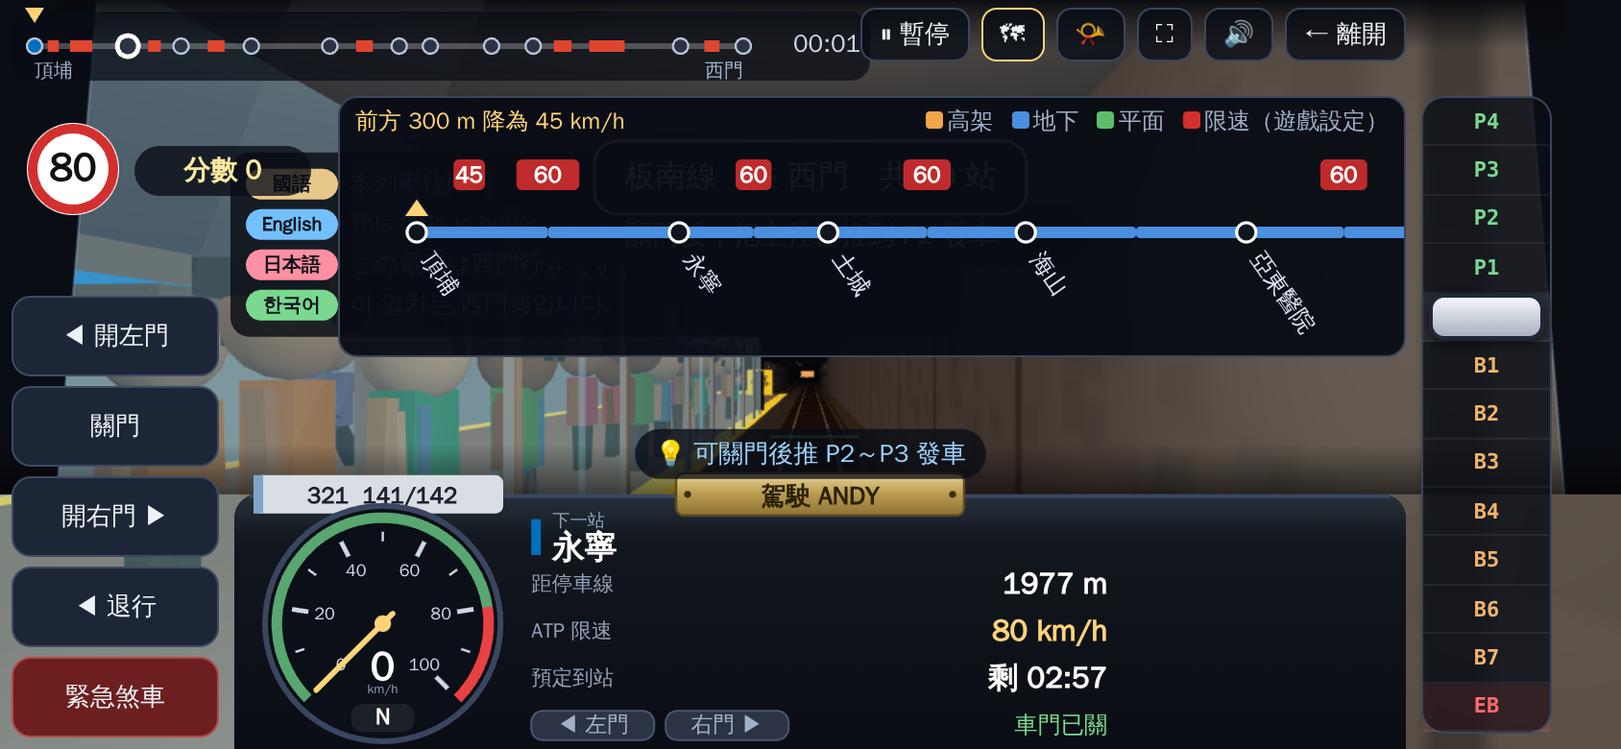
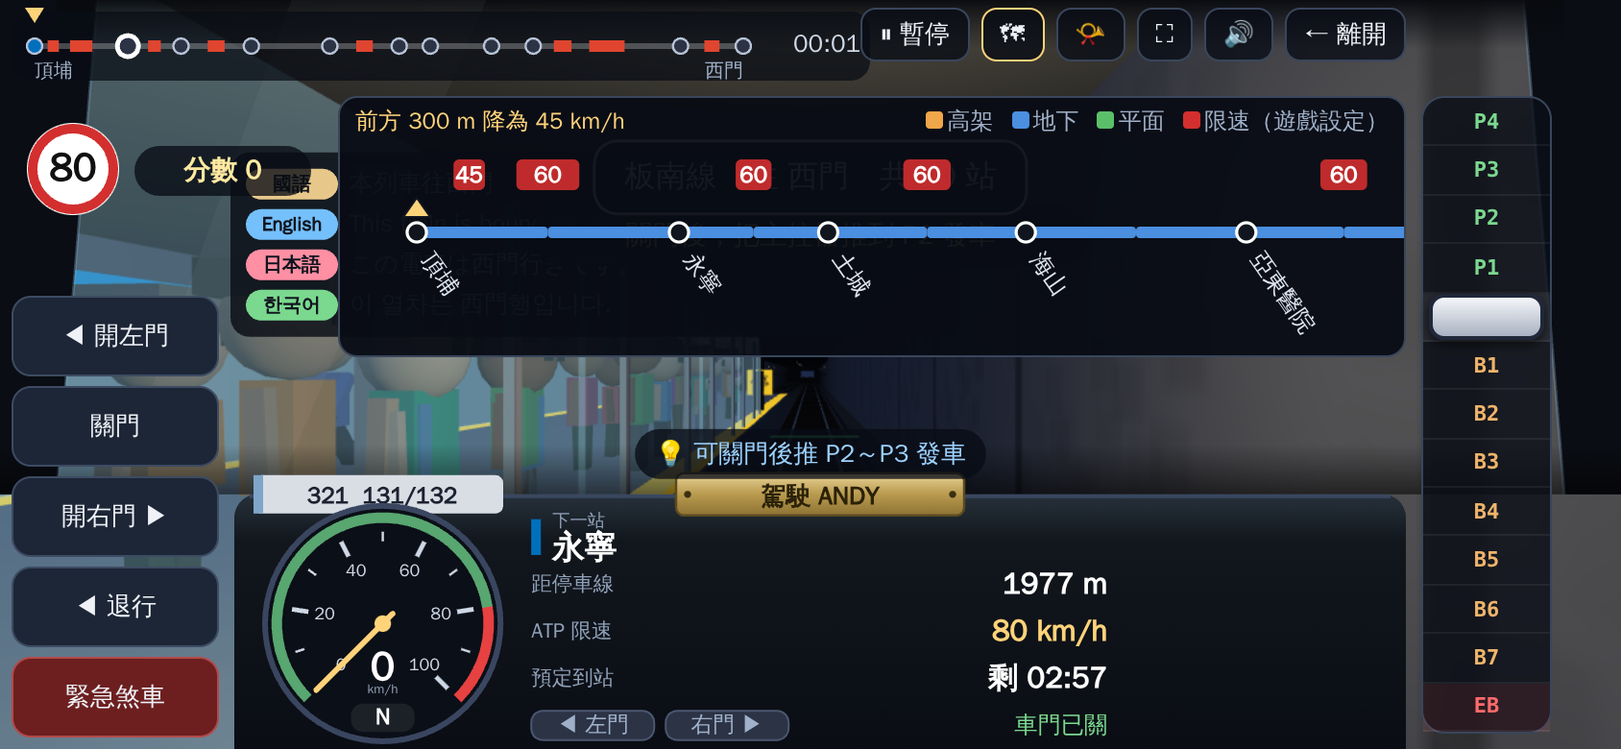
北捷駕駛模擬：選單簡化、首次教學、自動畫質
Claude-Session: https://claude.ai/code/session_01Qge72Z7eeTuytV4eWrHyPn

diff --git a/README.md b/README.md
@@ -9,7 +9,7 @@
   - `CARDS.md`：強化卡牌表的維護說明；`vendor/`：PeerJS（連線對戰）
 - `3kingdom-battles/`：三國・名戰錄（立體 3D 回合制攻守城戰，歷史戰役關卡），說明見 `3kingdom-battles/README.md`
 - `pikmin-like/`：小芽隊長（2D 即時群體操作，類皮克敏玩法；單一 `index.html`，無外部函式庫）。改版時執行 `python3 pikmin-like/tools/bump_version.py 2026-xx-xx.nn` 更新版本號，玩家端會跳出「有新版本」提示
-- `taipei-mrt-driver/`：北捷駕駛模擬（第一人稱手動駕駛；`index.html` 為規則、儀表與 HUD（2D canvas），`js/render3d.js` 為 Three.js 3D 場景，`vendor/three.min.js` 只打包用到的類別，用到的類別有增減時執行 `bash taipei-mrt-driver/tools/build_three.sh` 重新打包）。車型資料在 `js/models.js`（`MODELS`／`FLEETS`／`FORMATIONS`；來自維基百科各車型條目與路線條目「使用列車」，2026-11 擷取：C301／321／341／C371／C381／VAL256／Innovia APM 256 的營運最高速度、起動加速度、正常與緊急減速度、編組輸出、單節長度、每節車門數、供電 DC 750 V；`mass`、`knee` 為推估、`cab` 配色為示意）。每次值勤依各路線列數加權派車（或在選單指定），物理（加速、煞車、限速、時刻表）與月台門位置都依車型；文湖線真實為全自動無人駕駛，遊戲中的手動駕駛是模擬設定。ATP 動作後的復歸有兩種（選單「ATP 超速動作後」，`SET.atpStrict`，預設寬鬆）：寬鬆＝速度降到限速以下（或已停住）且主控器在 N／煞車位就復歸；嚴格＝必須完全停車、等 2 秒、主控器回 N 才復歸。**真實北捷的復位規定沒有查到**，兩種都是遊戲設計；以下三種情況不論模式都必須停車（`g.tripStrict`）：前方有停止信號（ATP 對「終點速度為零的停車目標」不應中途放開，否則會衝過信號，曾在測試中發現）、退行超出月台、越過停止信號。ATP 是超速防護不是防撞：旅客誤入軌道事件不處置會失敗；分享在 `js/share.js`：選單的「分享這個關卡」與結算頁的「分享成績與這一關」呼叫 Web Share API（`navigator.share`）叫出系統分享面板（iPhone／iPad／Mac Safari 的面板內有 AirDrop；網頁無法直接呼叫 AirDrop，也無法保證面板內一定出現 AirDrop，需要 HTTPS 並在點擊當下同步呼叫），不支援或失敗時退回複製連結並顯示可手動複製的文字；關卡連結格式 `?line=blue&from=BL07&to=BL09&model=341&theme=night`（用站號不用索引；`applyShareParams` 對路線、站號、車型、天色全部驗證，任何一項不合法就整個忽略，並用 `hasOwnProperty` 擋掉 `constructor`／`__proto__`），載入後以 `history.replaceState` 清掉網址參數；路線圖與限速預告在 `js/routemap.js`：上方進度條以紅色標出限速區間；左上有「前方 N m 降為 X km/h」預告（`nextLimit`）；頂端 🗺 按鈕展開可左右滑動的路線圖（站名、高架／地下／平面底線、限速區間、目前位置，滑動後 4 秒內不自動跟隨）。**限速區間是遊戲依站距產生的設定（`buildRun` 的 `zones`），不是北捷實際的限速資料**，站體底線則取自查證過的站體資料；意見回饋在 `js/feedback.js`：選單「意見回饋」展開表單（類型、內文最多 1500 字、可勾選是否附上版本／關卡／畫面／瀏覽器資訊，不含駕駛名稱），按「用郵件 App 寄出」以 `mailto:` 開啟玩家自己的郵件 App，由玩家按寄出才會送出，沒有任何伺服器收集；備援為「複製內容」；收件信箱只在檔案最上面的 `FEEDBACK_TO`（注意：寫在公開網頁裡，任何人看得到），尚未做自動讀信回信；駕駛名稱預設 ANDY（`drvName()`），可在選單最上方的欄位修改（最多 12 字、前後空白去掉、清空回到 ANDY），顯示在駕駛室名牌、結算標題，並記錄在排行榜（顯示時以 `escHtml` 跳脫）；選單、結算、排行榜以文件自然捲動（不用 position:fixed＋內部捲動，避免 iPhone Safari 工具列收合後點擊位置錯開）；車內廣播在 `js/broadcast.js`（`announce(kind, st)`；語言與播報順序依報導為國語、English、日本語、한국어、台語、客語；英語句型為「The next station is X.」「This is X. The doors will open on the left side.」「This train is bound for X.」，**站名的唸法**：英文語音會把漢語拼音站名唸錯（例如 Jiangzicui），所以拼音的部分改由國語語音唸漢字，英文單字（Temple、Hall、Park…）仍用英文語音（`BC_EN_ALL`／`BC_EN_SEG`），沒有國語語音時退回整句英文；英文站名取自維基車站表，已核對江子翠為官方拼法 Jiangzicui，並修正表中筆誤 `Sun Yet-Sen`→`Sun Yat-sen`（`tools/gen_lines.py` 的 `EN_FIX`）；字幕＋依裝置語音朗讀；依據：北捷到站廣播為國語、台語、客語＋英語，日語自 2018 年、韓語自 2023 年起在熱門與轉乘站增設，2024 年計畫擴及全線，搜尋時未確認是否完成；`BC_NAMED_JK` 為報導點名的站名，轉乘站由各路線的重複站名判斷，名單不完整；台語、客語沒有正確語句與語音資料，只顯示站名與「無語音」；日語、韓語站名以裝置語音唸漢字，唸法可能不準）。手機震動在 `js/haptics.js`（`HAP` 定義各檔位、N 位、EB、ATP、車門、事件的圖案；Android 用 `navigator.vibrate`，iPhone Safari 沒有該 API，改用 iOS 17.4 起切換 `<input type=checkbox switch>` 的觸覺回饋近似，未在真機驗證）。突發事件在 `js/events.js`（`EV_INFO` 記錄每種事件的新聞出處與處置建議；`evTick` 排程、`evLimit` 事件限速、任何事件超過 5 分鐘強制結束以免卡死），預設開啟，選單可調頻率與種類；結算頁的建議由 `coachTips` 依本班數據產生。駕駛室有 TCMS 面板、型號編組銘板、強風雨刷與供電閃爍；月台上有卡通旅客（行人只走固定走道 `lanesFor`，避開排隊區與柱子 `pillarX`，下車旅客沿車門中心線走出再轉入走道，`debugPeople` 供測試檢查碰撞；`animatePeople`／`poseParts`：每人頭、頭髮、眼睛、軀幹、雙腿、雙臂共 9 個部件，以 InstancedMesh 一次畫完；排隊候車、開門後走進車廂、下車走開、月台上來回走動，動畫依 `g.time`）；3D 場景以 100 公尺為單位的區塊隨車前進建立／釋放（高架與平面段依 `sc` 生成建築、樹、河、山、湖、田、機廠與高架下道路車流；全線為雙軌（我方軌道在 x=0 靠右行駛，對向軌道在左側 `TS`＝4 m；`TS` 是假設值，未查到官方軌道中心距；隧道、高架橋、圍籬都依雙軌斷面，隧道為示意的雙軌箱型斷面，實際哪些區間是箱型或圓形隧道未查）；島式月台夾在兩軌之間，對向軌道由 `oppX()` 在站前後 60 m 平順分開到月台另一側，因此島式月台站的「大廳」（隧道變寬、高架橋面加寬、護欄與路燈讓開）也要涵蓋這前後各 60 m（`hallRange()`），否則分開中的軌道會穿過一般斷面的牆或橋面邊緣（曾量到永寧 86 m、淡水 73 m 穿牆；`tools` 以外的檢查方式是用 `R3.oppX` 對照牆與橋面邊緣），側式月台的對向軌道有自己的月台；限速牌與號誌放在我方軌道右側），車站靠近才建立；WebGL 不可用或載入失敗時自動退回 2D 偽 3D（`drawWorld`）。手機橫握（寬>高且高≤520）時 3D 畫面鋪滿、車門按鈕在左、手把在右、儀表縮成中間窄條，直握會提示橫放並可一鍵全螢幕橫向；3D 以動態 `import()` 載入，本機請用 `python3 -m http.server`（`file://` 不行）。路線資料在 `js/lines.js`（由 `tools/gen_lines.py` 自 `data/stations.json` 產生；`data/stations.json` 由 `tools/parse_stations.py` 解析維基百科各路線條目的車站表而來，2026-11 擷取，含廣慈/奉天宮延伸段共 28 站）。**已查證**：站序、站體 `env`（elev 高架／grade 平面／tunnel 地下）、月台 `plat`（島式／側式）、站間距離 `d`；文湖線哪些高架站在道路中央上方（`ro`，出自條目敘述）。**示意**：`sc`（周邊疏密 `z` 與河、山、湖、田、樹、醫院、機廠，`L`／`R` 為站序遞增方向的左右，未逐站查證），改 `gen_lines.py` 的 `SCENE` 後重新產生。選單以雙頭滑桿（`rs`）選起訖站，兩端可相鄰、可交叉（交叉＝反向）；退行（`toggleReverse`，R 鍵）限速 5 km/h（`REV_LIM`）、只限過線後的月台範圍內、每次扣 5 分；靠近停車線時畫面下方的對位指示條（`drawStopGauge`）以平方根刻度放大顯示差距。關卡由選單的起訖站（`SET.from`／`SET.to`）決定，起點大於終點即反向；門側依靠右行駛推得（島式在左、側式在右）；物理與規則參數集中在檔案前段常數（`ACC_P`、`DEC_B`、`DEC_EB`、`ATP_DEC`、`ZONE_DEC`、`MIN_OPEN`、`DWELL`）。主控器 P1～P4／N／B1～B7／EB，加速度有加加速度限制（急加減速不會瞬間生效），停車瞬間的殘餘減速度決定舒適分。`step()` 為固定 1/60 秒物理與規則（ATP 限速＝區間限速加上進站與限速牌前的平緩減速曲線、超速 0.8 秒自動 EB、車門連動鎖、冒進過站判定），`scoreArrival()` 依停車誤差、準點、舒適三項計分；時刻表在 `buildRun()` 依站距與限速區間推算。畫面為偽 3D 投影（`pj`／`surf`／`fr`，彎道由 `lat()` 疊加正弦曲率），`drawElev`／`drawTunnel`／`drawStation` 畫場景，`drawDash` 畫儀表。本機執行：`python3 -m http.server` 後開 `/taipei-mrt-driver/`。改版時執行 `python3 taipei-mrt-driver/tools/bump_version.py 2026-xx-xx.nn` 更新版本號，玩家端會跳出「有新版本」提示。檔案內 `window.__mrt` 提供測試用鉤子（`G`、`step`、`setNotch`、`openDoors`、`closeDoors`、`startRun`）
+- `taipei-mrt-driver/`：北捷駕駛模擬（第一人稱手動駕駛；`index.html` 為規則、儀表與 HUD（2D canvas），`js/render3d.js` 為 Three.js 3D 場景，`vendor/three.min.js` 只打包用到的類別，用到的類別有增減時執行 `bash taipei-mrt-driver/tools/build_three.sh` 重新打包）。車型資料在 `js/models.js`（`MODELS`／`FLEETS`／`FORMATIONS`；來自維基百科各車型條目與路線條目「使用列車」，2026-11 擷取：C301／321／341／C371／C381／VAL256／Innovia APM 256 的營運最高速度、起動加速度、正常與緊急減速度、編組輸出、單節長度、每節車門數、供電 DC 750 V；`mass`、`knee` 為推估、`cab` 配色為示意）。每次值勤依各路線列數加權派車（或在選單指定），物理（加速、煞車、限速、時刻表）與月台門位置都依車型；文湖線真實為全自動無人駕駛，遊戲中的手動駕駛是模擬設定。ATP 動作後的復歸有兩種（選單「ATP 超速動作後」，`SET.atpStrict`，預設寬鬆）：寬鬆＝速度降到限速以下（或已停住）且主控器在 N／煞車位就復歸；嚴格＝必須完全停車、等 2 秒、主控器回 N 才復歸。**真實北捷的復位規定沒有查到**，兩種都是遊戲設計；以下三種情況不論模式都必須停車（`g.tripStrict`）：前方有停止信號（ATP 對「終點速度為零的停車目標」不應中途放開，否則會衝過信號，曾在測試中發現）、退行超出月台、越過停止信號。ATP 是超速防護不是防撞：旅客誤入軌道事件不處置會失敗；分享在 `js/share.js`：選單的「分享這個關卡」與結算頁的「分享成績與這一關」呼叫 Web Share API（`navigator.share`）叫出系統分享面板（iPhone／iPad／Mac Safari 的面板內有 AirDrop；網頁無法直接呼叫 AirDrop，也無法保證面板內一定出現 AirDrop，需要 HTTPS 並在點擊當下同步呼叫），不支援或失敗時退回複製連結並顯示可手動複製的文字；關卡連結格式 `?line=blue&from=BL07&to=BL09&model=341&theme=night`（用站號不用索引；`applyShareParams` 對路線、站號、車型、天色全部驗證，任何一項不合法就整個忽略，並用 `hasOwnProperty` 擋掉 `constructor`／`__proto__`），載入後以 `history.replaceState` 清掉網址參數；選單簡化：首屏只有路線、預設關卡與「開始值勤」；駕駛名稱、自訂起訖站、天色、車型、突發事件、ATP、新手輔助、廣播／震動、畫質都收在「⚙ 自訂關卡與遊戲設定」，操作說明收在「📖 操作說明」。第一次開始會顯示 4 步驟教學並暫停（`localStorage` 的 `mrt-tut`，按「知道了」後不再出現）。畫質（`SET.quality`）：自動（預設）在連續約 1.5 秒平均每格超過 28 ms 時把 3D 解析度降一級（`QS`，最低 0.5 倍，只降不升）、高畫質固定不降、省電固定 0.6 倍；**在 Chromium 軟體繪圖下只能驗證邏輯，沒有在真實手機上量過幀率**；路線圖與限速預告在 `js/routemap.js`：上方進度條以紅色標出限速區間；左上有「前方 N m 降為 X km/h」預告（`nextLimit`）；頂端 🗺 按鈕展開可左右滑動的路線圖（站名、高架／地下／平面底線、限速區間、目前位置，滑動後 4 秒內不自動跟隨）。**限速區間是遊戲依站距產生的設定（`buildRun` 的 `zones`），不是北捷實際的限速資料**，站體底線則取自查證過的站體資料；意見回饋在 `js/feedback.js`：選單「意見回饋」展開表單（類型、內文最多 1500 字、可勾選是否附上版本／關卡／畫面／瀏覽器資訊，不含駕駛名稱），按「用郵件 App 寄出」以 `mailto:` 開啟玩家自己的郵件 App，由玩家按寄出才會送出，沒有任何伺服器收集；備援為「複製內容」；收件信箱只在檔案最上面的 `FEEDBACK_TO`（注意：寫在公開網頁裡，任何人看得到），尚未做自動讀信回信；駕駛名稱預設 ANDY（`drvName()`），可在選單最上方的欄位修改（最多 12 字、前後空白去掉、清空回到 ANDY），顯示在駕駛室名牌、結算標題，並記錄在排行榜（顯示時以 `escHtml` 跳脫）；選單、結算、排行榜以文件自然捲動（不用 position:fixed＋內部捲動，避免 iPhone Safari 工具列收合後點擊位置錯開）；車內廣播在 `js/broadcast.js`（`announce(kind, st)`；語言與播報順序依報導為國語、English、日本語、한국어、台語、客語；英語句型為「The next station is X.」「This is X. The doors will open on the left side.」「This train is bound for X.」，**站名的唸法**：英文語音會把漢語拼音站名唸錯（例如 Jiangzicui），所以拼音的部分改由國語語音唸漢字，英文單字（Temple、Hall、Park…）仍用英文語音（`BC_EN_ALL`／`BC_EN_SEG`），沒有國語語音時退回整句英文；英文站名取自維基車站表，已核對江子翠為官方拼法 Jiangzicui，並修正表中筆誤 `Sun Yet-Sen`→`Sun Yat-sen`（`tools/gen_lines.py` 的 `EN_FIX`）；字幕＋依裝置語音朗讀；依據：北捷到站廣播為國語、台語、客語＋英語，日語自 2018 年、韓語自 2023 年起在熱門與轉乘站增設，2024 年計畫擴及全線，搜尋時未確認是否完成；`BC_NAMED_JK` 為報導點名的站名，轉乘站由各路線的重複站名判斷，名單不完整；台語、客語沒有正確語句與語音資料，只顯示站名與「無語音」；日語、韓語站名以裝置語音唸漢字，唸法可能不準）。手機震動在 `js/haptics.js`（`HAP` 定義各檔位、N 位、EB、ATP、車門、事件的圖案；Android 用 `navigator.vibrate`，iPhone Safari 沒有該 API，改用 iOS 17.4 起切換 `<input type=checkbox switch>` 的觸覺回饋近似，未在真機驗證）。突發事件在 `js/events.js`（`EV_INFO` 記錄每種事件的新聞出處與處置建議；`evTick` 排程、`evLimit` 事件限速、任何事件超過 5 分鐘強制結束以免卡死），預設開啟，選單可調頻率與種類；結算頁的建議由 `coachTips` 依本班數據產生。駕駛室有 TCMS 面板、型號編組銘板、強風雨刷與供電閃爍；月台上有卡通旅客（行人只走固定走道 `lanesFor`，避開排隊區與柱子 `pillarX`，下車旅客沿車門中心線走出再轉入走道，`debugPeople` 供測試檢查碰撞；`animatePeople`／`poseParts`：每人頭、頭髮、眼睛、軀幹、雙腿、雙臂共 9 個部件，以 InstancedMesh 一次畫完；排隊候車、開門後走進車廂、下車走開、月台上來回走動，動畫依 `g.time`）；3D 場景以 100 公尺為單位的區塊隨車前進建立／釋放（高架與平面段依 `sc` 生成建築、樹、河、山、湖、田、機廠與高架下道路車流；全線為雙軌（我方軌道在 x=0 靠右行駛，對向軌道在左側 `TS`＝4 m；`TS` 是假設值，未查到官方軌道中心距；隧道、高架橋、圍籬都依雙軌斷面，隧道為示意的雙軌箱型斷面，實際哪些區間是箱型或圓形隧道未查）；島式月台夾在兩軌之間，對向軌道由 `oppX()` 在站前後 60 m 平順分開到月台另一側，因此島式月台站的「大廳」（隧道變寬、高架橋面加寬、護欄與路燈讓開）也要涵蓋這前後各 60 m（`hallRange()`），否則分開中的軌道會穿過一般斷面的牆或橋面邊緣（曾量到永寧 86 m、淡水 73 m 穿牆；`tools` 以外的檢查方式是用 `R3.oppX` 對照牆與橋面邊緣），側式月台的對向軌道有自己的月台；限速牌與號誌放在我方軌道右側），車站靠近才建立；WebGL 不可用或載入失敗時自動退回 2D 偽 3D（`drawWorld`）。手機橫握（寬>高且高≤520）時 3D 畫面鋪滿、車門按鈕在左、手把在右、儀表縮成中間窄條，直握會提示橫放並可一鍵全螢幕橫向；3D 以動態 `import()` 載入，本機請用 `python3 -m http.server`（`file://` 不行）。路線資料在 `js/lines.js`（由 `tools/gen_lines.py` 自 `data/stations.json` 產生；`data/stations.json` 由 `tools/parse_stations.py` 解析維基百科各路線條目的車站表而來，2026-11 擷取，含廣慈/奉天宮延伸段共 28 站）。**已查證**：站序、站體 `env`（elev 高架／grade 平面／tunnel 地下）、月台 `plat`（島式／側式）、站間距離 `d`；文湖線哪些高架站在道路中央上方（`ro`，出自條目敘述）。**示意**：`sc`（周邊疏密 `z` 與河、山、湖、田、樹、醫院、機廠，`L`／`R` 為站序遞增方向的左右，未逐站查證），改 `gen_lines.py` 的 `SCENE` 後重新產生。選單以雙頭滑桿（`rs`）選起訖站，兩端可相鄰、可交叉（交叉＝反向）；退行（`toggleReverse`，R 鍵）限速 5 km/h（`REV_LIM`）、只限過線後的月台範圍內、每次扣 5 分；靠近停車線時畫面下方的對位指示條（`drawStopGauge`）以平方根刻度放大顯示差距。關卡由選單的起訖站（`SET.from`／`SET.to`）決定，起點大於終點即反向；門側依靠右行駛推得（島式在左、側式在右）；物理與規則參數集中在檔案前段常數（`ACC_P`、`DEC_B`、`DEC_EB`、`ATP_DEC`、`ZONE_DEC`、`MIN_OPEN`、`DWELL`）。主控器 P1～P4／N／B1～B7／EB，加速度有加加速度限制（急加減速不會瞬間生效），停車瞬間的殘餘減速度決定舒適分。`step()` 為固定 1/60 秒物理與規則（ATP 限速＝區間限速加上進站與限速牌前的平緩減速曲線、超速 0.8 秒自動 EB、車門連動鎖、冒進過站判定），`scoreArrival()` 依停車誤差、準點、舒適三項計分；時刻表在 `buildRun()` 依站距與限速區間推算。畫面為偽 3D 投影（`pj`／`surf`／`fr`，彎道由 `lat()` 疊加正弦曲率），`drawElev`／`drawTunnel`／`drawStation` 畫場景，`drawDash` 畫儀表。本機執行：`python3 -m http.server` 後開 `/taipei-mrt-driver/`。改版時執行 `python3 taipei-mrt-driver/tools/bump_version.py 2026-xx-xx.nn` 更新版本號，玩家端會跳出「有新版本」提示。檔案內 `window.__mrt` 提供測試用鉤子（`G`、`step`、`setNotch`、`openDoors`、`closeDoors`、`startRun`）
 - `pullback-rush/`：Pullback Rush（回力戰車同畫面雙人對戰，純 Canvas、無外部函式庫）。`js/config.js` 集中所有參數（蓄力、馬達、射程、主堡血量），`js/audio.js` 合成音效，`js/game.js` 邏輯與繪圖。本機執行：`python3 -m http.server` 後開 `/pullback-rush/`。改版時執行 `python3 pullback-rush/tools/bump_version.py 2026-xx-xx.nn` 更新版本號，玩家端會跳出「有新版本」提示
 - `taiwan-strait-landing/`：台海兵棋推演（簡稱「台海兵推」；六角格兩棲登陸兵棋；單一 `index.html`，無外部函式庫）。單人可選攻方或守方，也可雙方同機或觀戰；開局為 5 頁設定精靈（每頁有說明，可上一步／下一步，設定會記錄），側欄分頁，主地圖可縮放與全螢幕；下方的西太平洋戰區圖納入美、日、菲的基地與部隊（`BASES`、`FORCES`），各方海空軍、飛彈、防空以力量池（`POOL0`）計算制空與制海。各國參戰由擲骰加觸發條件決定，參戰後由電腦操作。電腦推演模式在 7 個事件節點暫停（`EVENTS` 陣列），可決策的用選項、不可控的擲骰。每回合結束有國際快訊；戰區圖標出中方火箭軍、空軍、海軍基地與集結港（`CNB`），台灣長程飛彈與美日部隊可以打擊，並會招致中方報復；主地圖可切換標準／放大／最大；側欄「戰爭代價」把損失換算成軍民傷亡人數與經濟損失（換算參數在 `PERS`、`POOLCOST`、`FXCOST`、`GDPHIT`），結束時產生戰後檢討報告。改版時執行 `python3 taiwan-strait-landing/tools/bump_version.py 2026-xx-xx.nn` 更新版本號，玩家端會跳出「有新版本」提示。模式含「純模擬」：先瞬間錄下整場戰爭（`startVideo`），再以戰棋地圖為背景像影片般播放，下方字幕區顯示動作與影響，可暫停、變速、拖曳時間軸。地圖採 3D 地塊（`buildStatic` 靜態層、`renderMap` 動態層），攻防有彈道、爆炸與棋子滑動等動畫（`runFx`）。可加到主畫面：`manifest.webmanifest` 與 `icons/`（`icon.svg` 為圖示原稿，改圖後執行 `node taiwan-strait-landing/tools/make_icons.cjs` 重新輸出各尺寸 PNG）。可在設定頁或影片模式「跑統計」（`runStats`）：電腦自動模擬 50／100／300 局並列出勝率、代價與決策影響；操作階段可按「電腦代打剩餘單位」（`assistPhase`）；手機版設定精靈排在地圖前、操作列固定在底部。判定有「僵局」：只達成首都且已連續控制 2 個回合以上（`verdict`、`tpHeldTurns`）；守方在首都或港口失守時會集結反攻（`aiDefUnit`）。設定頁以選項按鈕列搭配單句說明，底部固定上一步／下一步／開始；結果頁頂部固定判定與三項條件、內容以可收折區塊（`acc`）呈現、底部固定操作按鈕。美軍有三種立場：隱蔽支援、代理打擊（不承認參戰）、公開參戰，傷亡累計到門檻時會擲骰退縮（`usIdx`、`usReview`）；影片字幕區等文字框固定高度，播放時版面不跳動。兵力年代（2026 現況／2028／2030，`ERA`）依公開報導加入雲峰、東風-15／16／17／26／21D、PCH-191、HIMARS 等，資料依據與限制見 `taiwan-strait-landing/DATA.md`；參戰情境新增「只提供情報」，已移除菲律賓；地圖外圍加入示意區（宮古／先島、舟山、黃山、梅州、呂宋北部美軍），縮小才看得到；外圍示意區含美日沖繩／關島／第7艦隊／九州與共軍沿海投射區，各方遠程火力由這些位置發出；點外圍基地可看說明與概略射程，手機支援雙指縮放；共軍航艦、巡弋飛彈、制空與防空壓制兩層空戰、海上交戰（護航艦隊、潛艦）；美軍至少是代理打擊（台美共用飛彈與魚雷）、台灣海鯤潛艦；兵力年代改為 2026～2032 逐年、守方布雷（火山布雷車與水雷）；共軍潛艦（含反潛對抗）；每格最多 2 個友軍單位（堆疊）；參戰情境新增「依自身利益決定」、火力動畫依軍種有不同彈道、潛艦圖示；水面艦艇上地圖（共軍護航艦、守方艦艇群）；地圖格數加倍（細格約 36×36）；台灣依真實地形重畫、機場增加、東岸飛彈與共軍航艦群上地圖、雄二／雄三存量；艦艇可移動、航艦飽和攻擊、西太平洋戰區呈現呂宋；停戰（攻方）／放棄（守方）評估；台灣反艦火力依發射平台分列、損失來源統計；機動發射車隱蔽與打了就跑；守方港口破壞；勝負判定調整（站穩、險勝、灘頭堡僵持、慘勝標註、提前取勝）；金門、馬祖與「攻方有限勝利（金馬）」、澎湖改為馬公本島加白沙；大陸沿岸依真實海岸線重畫、外圍地圖統一為細格、可多選攻擊軸線、依真實規模調整雙方兵力；命中判定改為「基礎命中率 × 有限運氣（±22%）」；支援語言選擇（繁體中文預設、English、日本語、简体中文，可隨時更改；詞典與建置工具在 `tools/i18n/`）；每回合重點的簡短語音（Web Speech API，預設關閉，可開啟）；守方海馬士（HIMARS）火箭砲棋子
 - `tx-futures/`：台指期預估・現價查詢（參考 optratw.com）。改版時執行 `python3 tx-futures/tools/bump_version.py 2026-xx-xx.nn` 更新版本號，使用者端會跳出「有新版本」提示。`node tx-futures/server.js` 後開 `http://localhost:8080`；`server.js` 代理期交所 MIS 報價（`/api/quote`），並把每個交易日最後一筆報價存到 `tx-futures/data/history.json`（`/api/history`，保留 60 天；非交易時段顯示最後紀錄）。另外參考新加坡 SGX 富時台灣指數期貨（日盤／電子盤，代號 `TWN`，網址可用環境變數 `SGX_CODE`、`SGX_URL_T`、`SGX_URL_T1` 覆寫），預估價＝選擇權買賣權平價隱含期貨價（K＋C−P）
